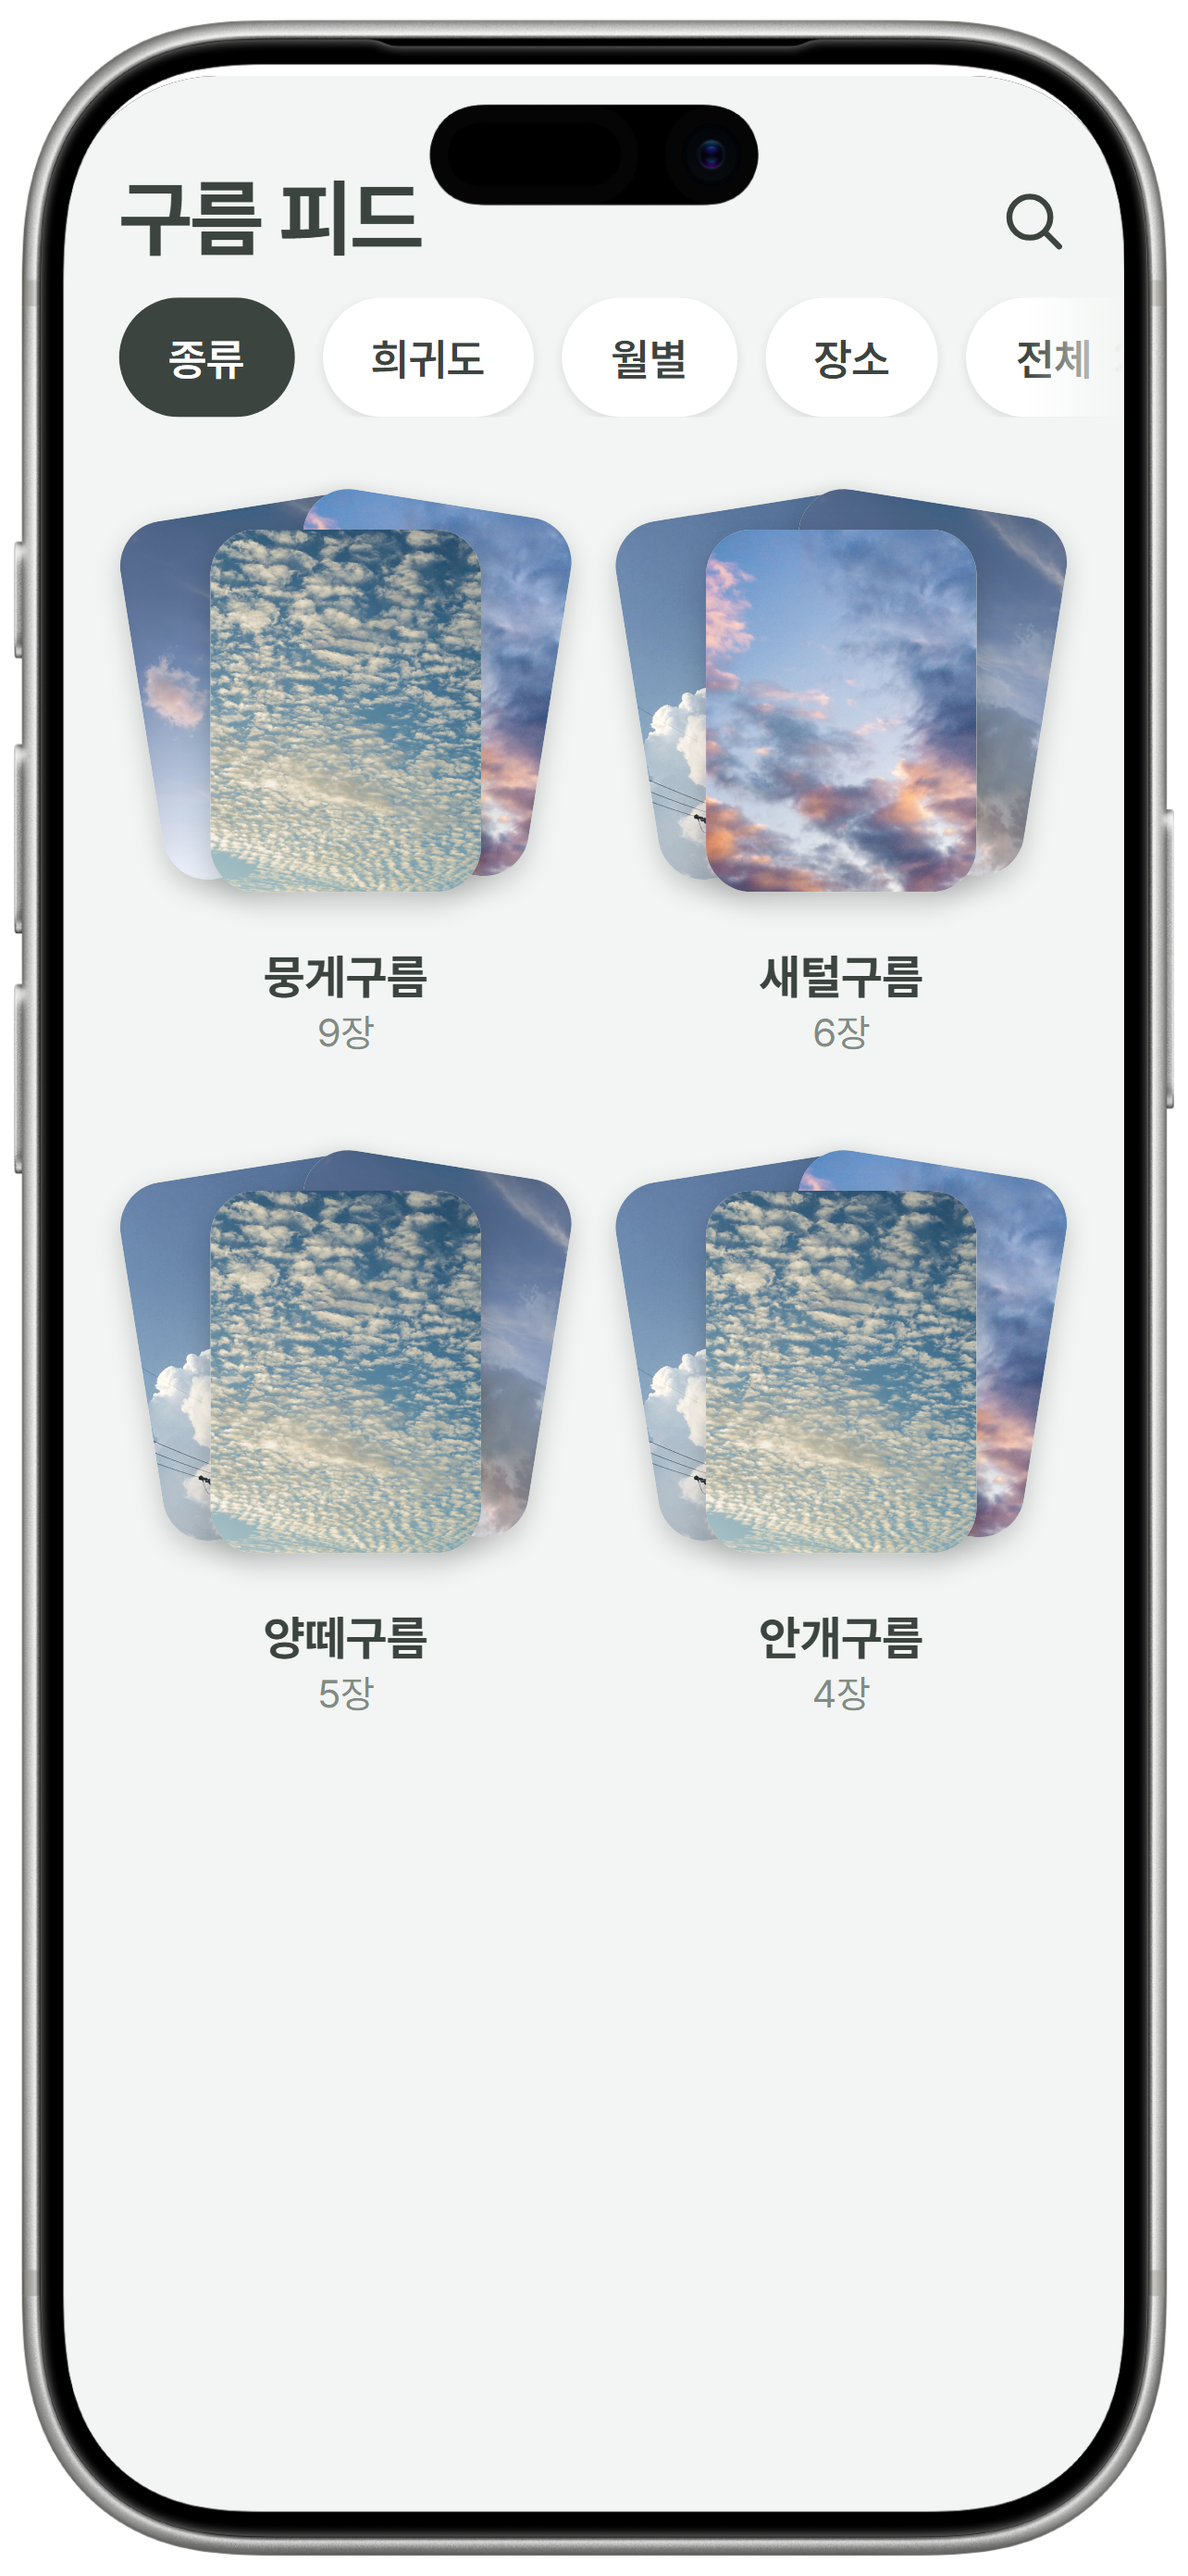
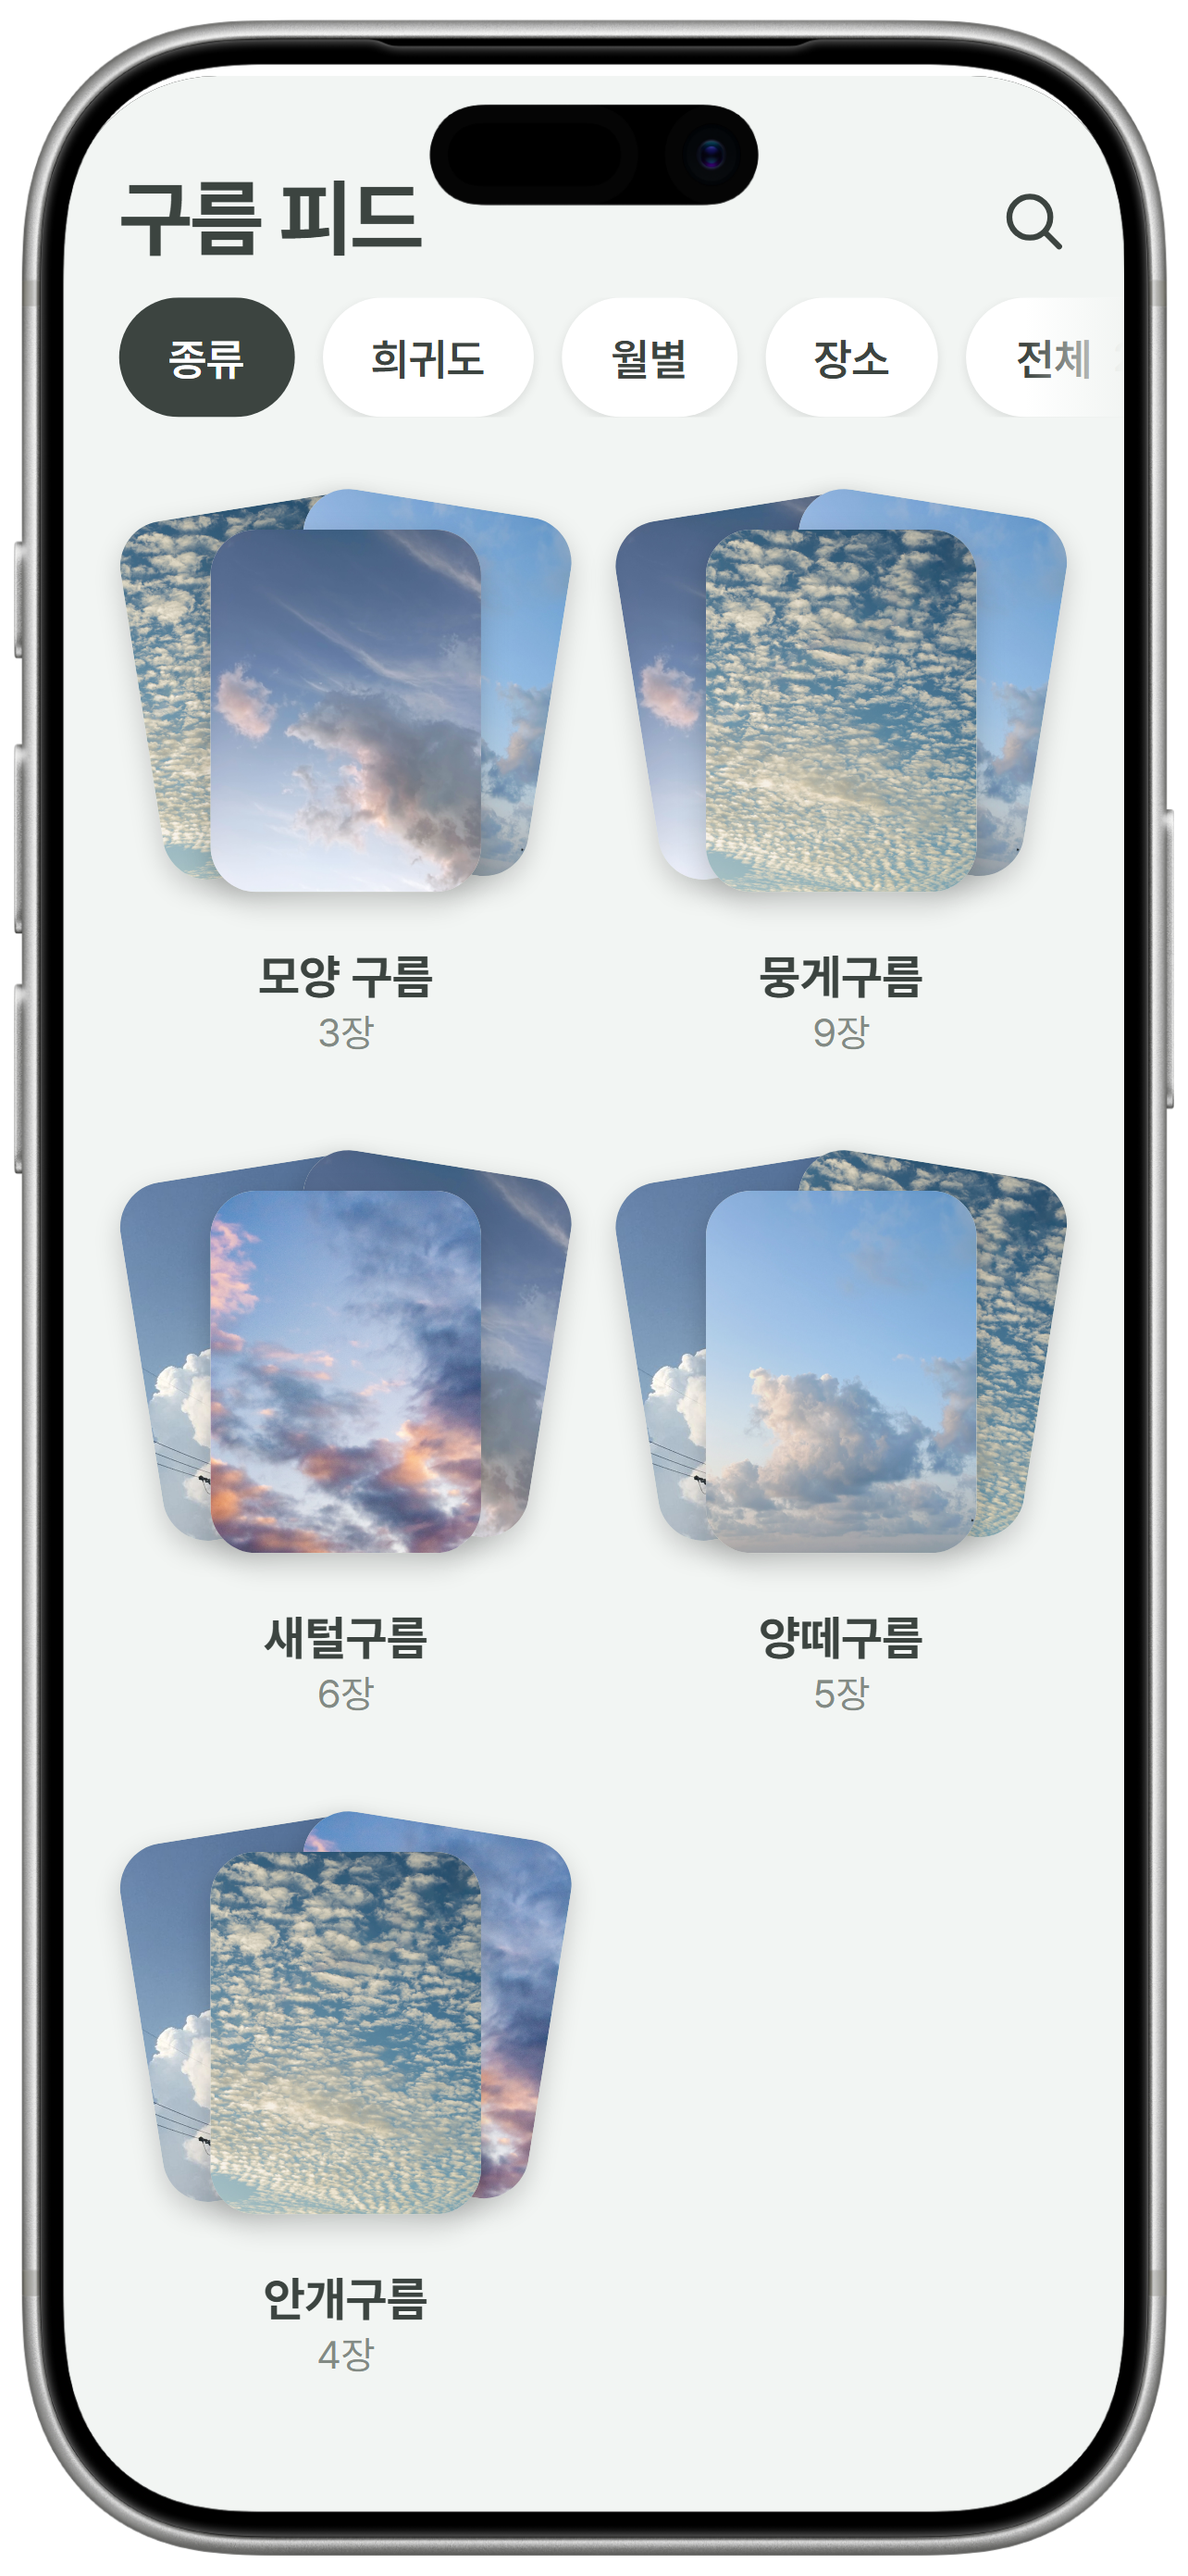
chore: 버전 정리

diff --git a/design/src/sections/MapScreen.tsx b/design/src/sections/MapScreen.tsx
@@ -5,6 +5,7 @@ import { glass, GlassTone } from "../theme";
 import recognitionSky from "../assets/photos/recognition-sky.jpg";
 import shareDusk from "../assets/photos/share-dusk.jpg";
 import streakSunset from "../assets/photos/streak-sunset.jpg";
+import cumulusBird from "../assets/photos/cumulus-bird.jpg";
 
 // Ported from lib/mapMeta.ts / components/MapTopBar.tsx / MapSheet.tsx: a
 // full-bleed map (react-native-maps on device; a decorative texture stands
@@ -38,6 +39,7 @@ const CARDS = [
   { name: "새털구름", place: "여의도 한강공원", photo: shareDusk, rarity: "일반" as const },
   { name: "양떼구름", place: "남산", photo: streakSunset, rarity: "희귀" as const, selected: true },
   { name: "뭉게구름", place: "성산동", photo: recognitionSky, rarity: "일반" as const },
+  { name: "하트구름", place: "여의도 한강공원", photo: cumulusBird, rarity: "희귀" as const },
 ];
 
 function raritySwatch(rarity: "일반" | "희귀" | "전설") {
@@ -109,6 +111,10 @@ export default function MapScreen() {
         <div style={{ position: "relative" }}>
           <div style={{ display: "flex", gap: 8, padding: "0 16px", overflow: "hidden" }}>
             <FilterPill label="전체" active />
+            {/* Shape clouds get one shared chip (however they were each
+                individually named), pinned right after "전체" — ported from
+                lib/mapMeta.ts's speciesInPins/filterPinsBySpecies. */}
+            <FilterPill label="모양 구름" active={false} />
             <FilterPill label="뭉게구름" active={false} />
             <FilterPill label="새털구름" active={false} />
             <FilterPill label="양떼구름" active={false} />
@@ -145,7 +151,7 @@ export default function MapScreen() {
         }}
       >
         <span style={{ display: "block", fontSize: 14, fontWeight: 700, color: glass.ink, padding: "0 16px", marginBottom: 10 }}>
-          구름 기록 <span style={{ color: glass.accent }}>12</span>
+          구름 기록 <span style={{ color: glass.accent }}>13</span>
         </span>
         <div style={{ display: "flex", gap: 10, padding: "0 16px" }}>
           {CARDS.map((c) => (
@@ -160,11 +166,11 @@ export default function MapScreen() {
               }}
             >
               <img src={c.photo} alt="" style={{ width: "100%", height: 62, borderRadius: 10, objectFit: "cover", display: "block" }} />
-              <span style={{ display: "block", fontSize: 12, fontWeight: 700, color: glass.ink, marginTop: 6 }}>{c.name}</span>
+              <span style={{ display: "block", fontSize: 12, fontWeight: 700, color: glass.ink, marginTop: 6, whiteSpace: "nowrap", overflow: "hidden", textOverflow: "ellipsis" }}>{c.name}</span>
               {c.selected ? (
-                <span style={{ fontSize: 11, fontWeight: 700, color: glass.accent }}>기록 보기 ›</span>
+                <span style={{ fontSize: 11, fontWeight: 700, color: glass.accent, whiteSpace: "nowrap" }}>기록 보기 ›</span>
               ) : (
-                <span style={{ fontSize: 10, color: glass.subMuted }}>{c.place}</span>
+                <span style={{ display: "block", fontSize: 10, color: glass.subMuted, whiteSpace: "nowrap", overflow: "hidden", textOverflow: "ellipsis" }}>{c.place}</span>
               )}
             </div>
           ))}

diff --git a/design/src/sections/FeedScreen.tsx b/design/src/sections/FeedScreen.tsx
@@ -5,6 +5,7 @@ import recognitionSky from "../assets/photos/recognition-sky.jpg";
 import shareDusk from "../assets/photos/share-dusk.jpg";
 import streakSunset from "../assets/photos/streak-sunset.jpg";
 import cumulusPole from "../assets/photos/cumulus-pole.jpg";
+import cumulusBird from "../assets/photos/cumulus-bird.jpg";
 
 // Ported from components/FolderGrid.tsx: each folder is a small pile of its
 // newest photos (one, two, or three), fanned out and tilted like an album
@@ -26,16 +27,22 @@ const SLOTS = [
 
 type Folder = { key: string; label: string; count: number; photos: (string | null)[] };
 
-// Only 4 real cloud photos exist in the repo's reference assets, so every
+// 5 real cloud photos exist in the repo's reference assets now, so every
 // folder below draws from the same small pool — but each pulls a different
 // three (a different photo fronting the pile each time), so the grid still
 // reads as a full, well-stocked feed rather than the same one or two photos
 // repeated thin. A full three-photo pile is also just the better showcase:
 // see StackCard/FolderTile for how thinner (one- or zero-photo) piles look.
+//
+// "모양 구름" leads the grid, pinned first regardless of count — ported from
+// feedFilters.ts's groupItems: every shape cloud (however it was individually
+// named — "하트구름", "토끼구름", …) collapses into this one folder in the
+// real 종류 tab, same as here.
 const FOLDERS: Folder[] = [
-  { key: "뭉게구름", label: "뭉게구름", count: 9, photos: [recognitionSky, shareDusk, streakSunset] },
+  { key: "모양 구름", label: "모양 구름", count: 3, photos: [streakSunset, cumulusBird, recognitionSky] },
+  { key: "뭉게구름", label: "뭉게구름", count: 9, photos: [recognitionSky, cumulusBird, streakSunset] },
   { key: "새털구름", label: "새털구름", count: 6, photos: [shareDusk, streakSunset, cumulusPole] },
-  { key: "양떼구름", label: "양떼구름", count: 5, photos: [recognitionSky, streakSunset, cumulusPole] },
+  { key: "양떼구름", label: "양떼구름", count: 5, photos: [cumulusBird, recognitionSky, cumulusPole] },
   { key: "안개구름", label: "안개구름", count: 4, photos: [recognitionSky, shareDusk, cumulusPole] },
 ];
 
@@ -112,7 +119,7 @@ export default function FeedScreen() {
           <FilterPill label="희귀도" active={false} />
           <FilterPill label="월별" active={false} />
           <FilterPill label="장소" active={false} />
-          <FilterPill label="전체" active={false} count={24} />
+          <FilterPill label="전체" active={false} count={27} />
         </div>
         <div
           style={{
